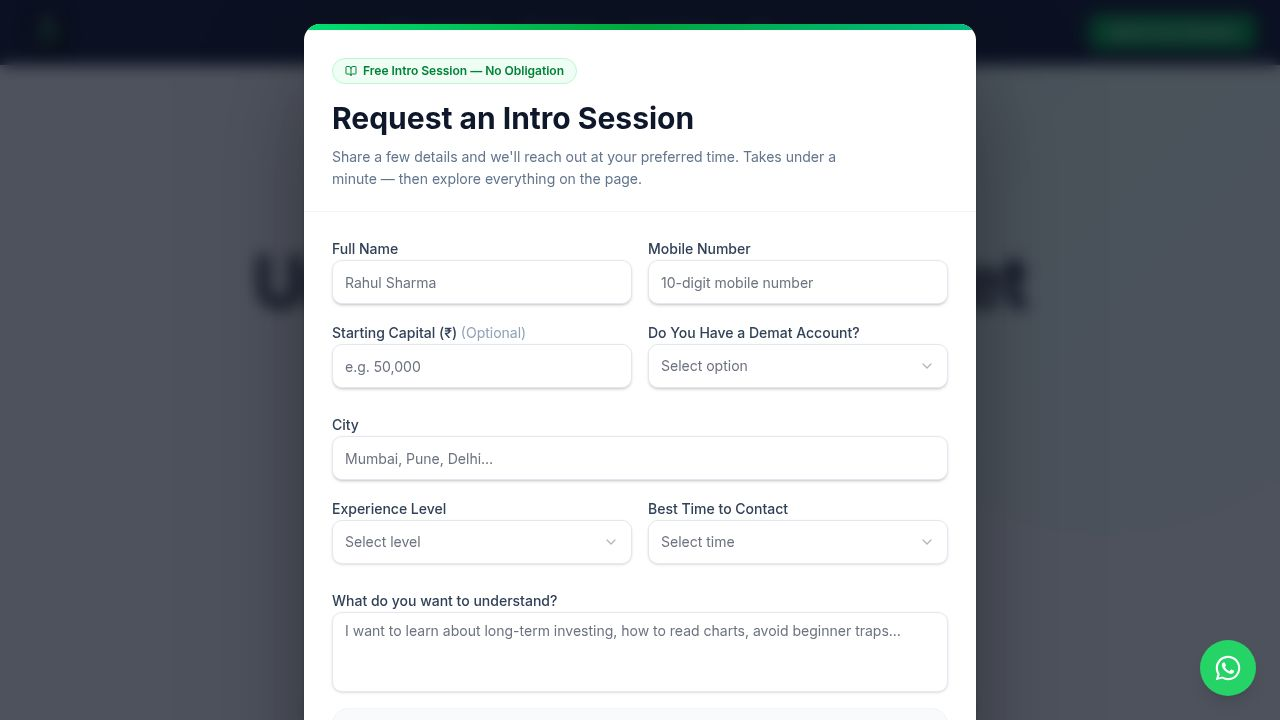
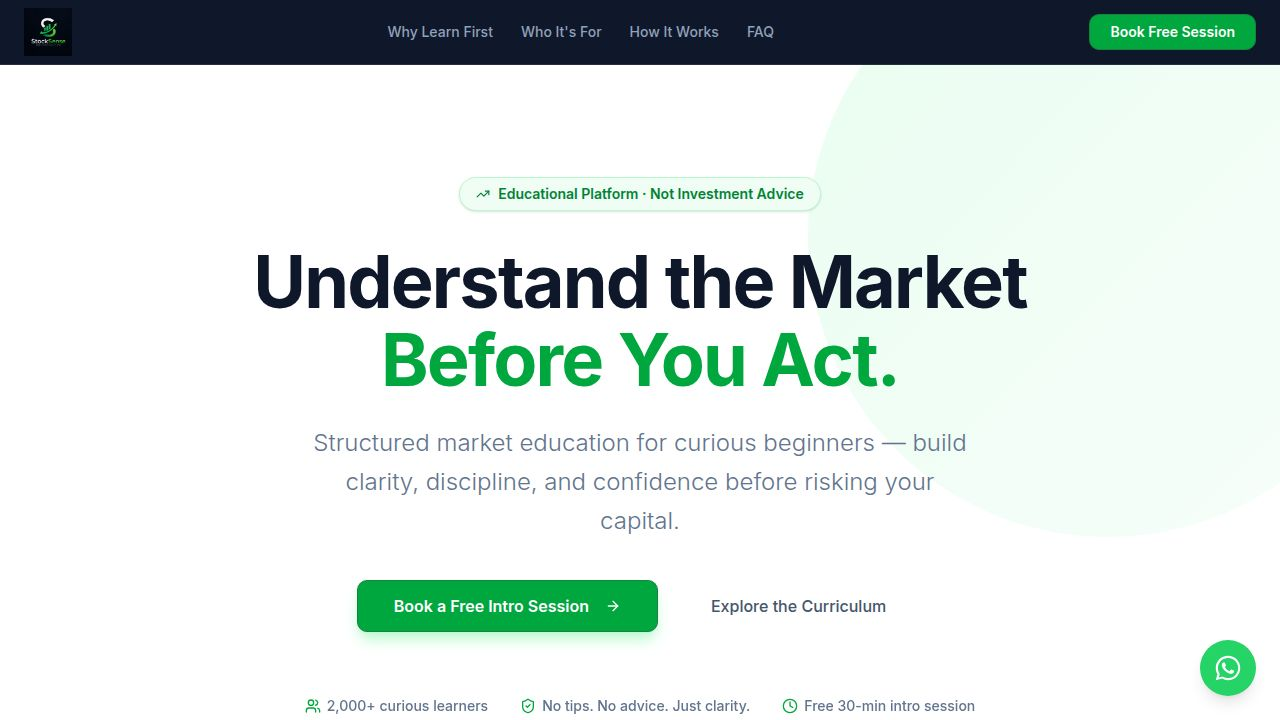
Temporarily disable the mandatory lead gate popup
Disable the mandatory lead gate popup by setting LEAD_GATE_ENABLED to false and adjust the handleBookClick function to open the booking modal when the gate is disabled.

Replit-Commit-Author: Agent
Replit-Commit-Session-Id: 14b27486-9f5d-4dde-9969-0f9769f6c6bb
Replit-Commit-Checkpoint-Type: full_checkpoint
Replit-Commit-Event-Id: 6d99ac83-af46-4d35-8d4e-4bcd5708b890
Replit-Commit-Screenshot-Url: https://storage.googleapis.com/screenshot-production-us-central1/af54d0e0-b886-452d-b183-6afda7316da3/14b27486-9f5d-4dde-9969-0f9769f6c6bb/tn8KmGK
Replit-Helium-Checkpoint-Created: true

diff --git a/artifacts/stocksense/src/pages/Landing.tsx b/artifacts/stocksense/src/pages/Landing.tsx
@@ -492,6 +492,9 @@ function FadeSection({ children, className = "" }: { children: React.ReactNode; 
   );
 }
 
+/* Temporarily disabled — set back to true to re-enable the mandatory lead gate popup */
+const LEAD_GATE_ENABLED = false;
+
 /* ─── Main Landing Page ────────────────────────────────────────────────────── */
 export default function Landing() {
   const [showPopup, setShowPopup] = useState(false);
@@ -501,6 +504,9 @@ export default function Landing() {
     const alreadySubmitted = sessionStorage.getItem(SESSION_KEY) === "1";
     if (alreadySubmitted) {
       setLeadSubmitted(true);
+      return;
+    }
+    if (!LEAD_GATE_ENABLED) {
       return;
     }
     // Small delay so the page has a moment to paint before the modal appears
@@ -518,7 +524,7 @@ export default function Landing() {
 
   /* Smart book handler: closeable modal if already submitted, mandatory gate if not */
   function handleBookClick() {
-    if (leadSubmitted) {
+    if (leadSubmitted || !LEAD_GATE_ENABLED) {
       setShowBookingModal(true);
     } else {
       setShowPopup(true);